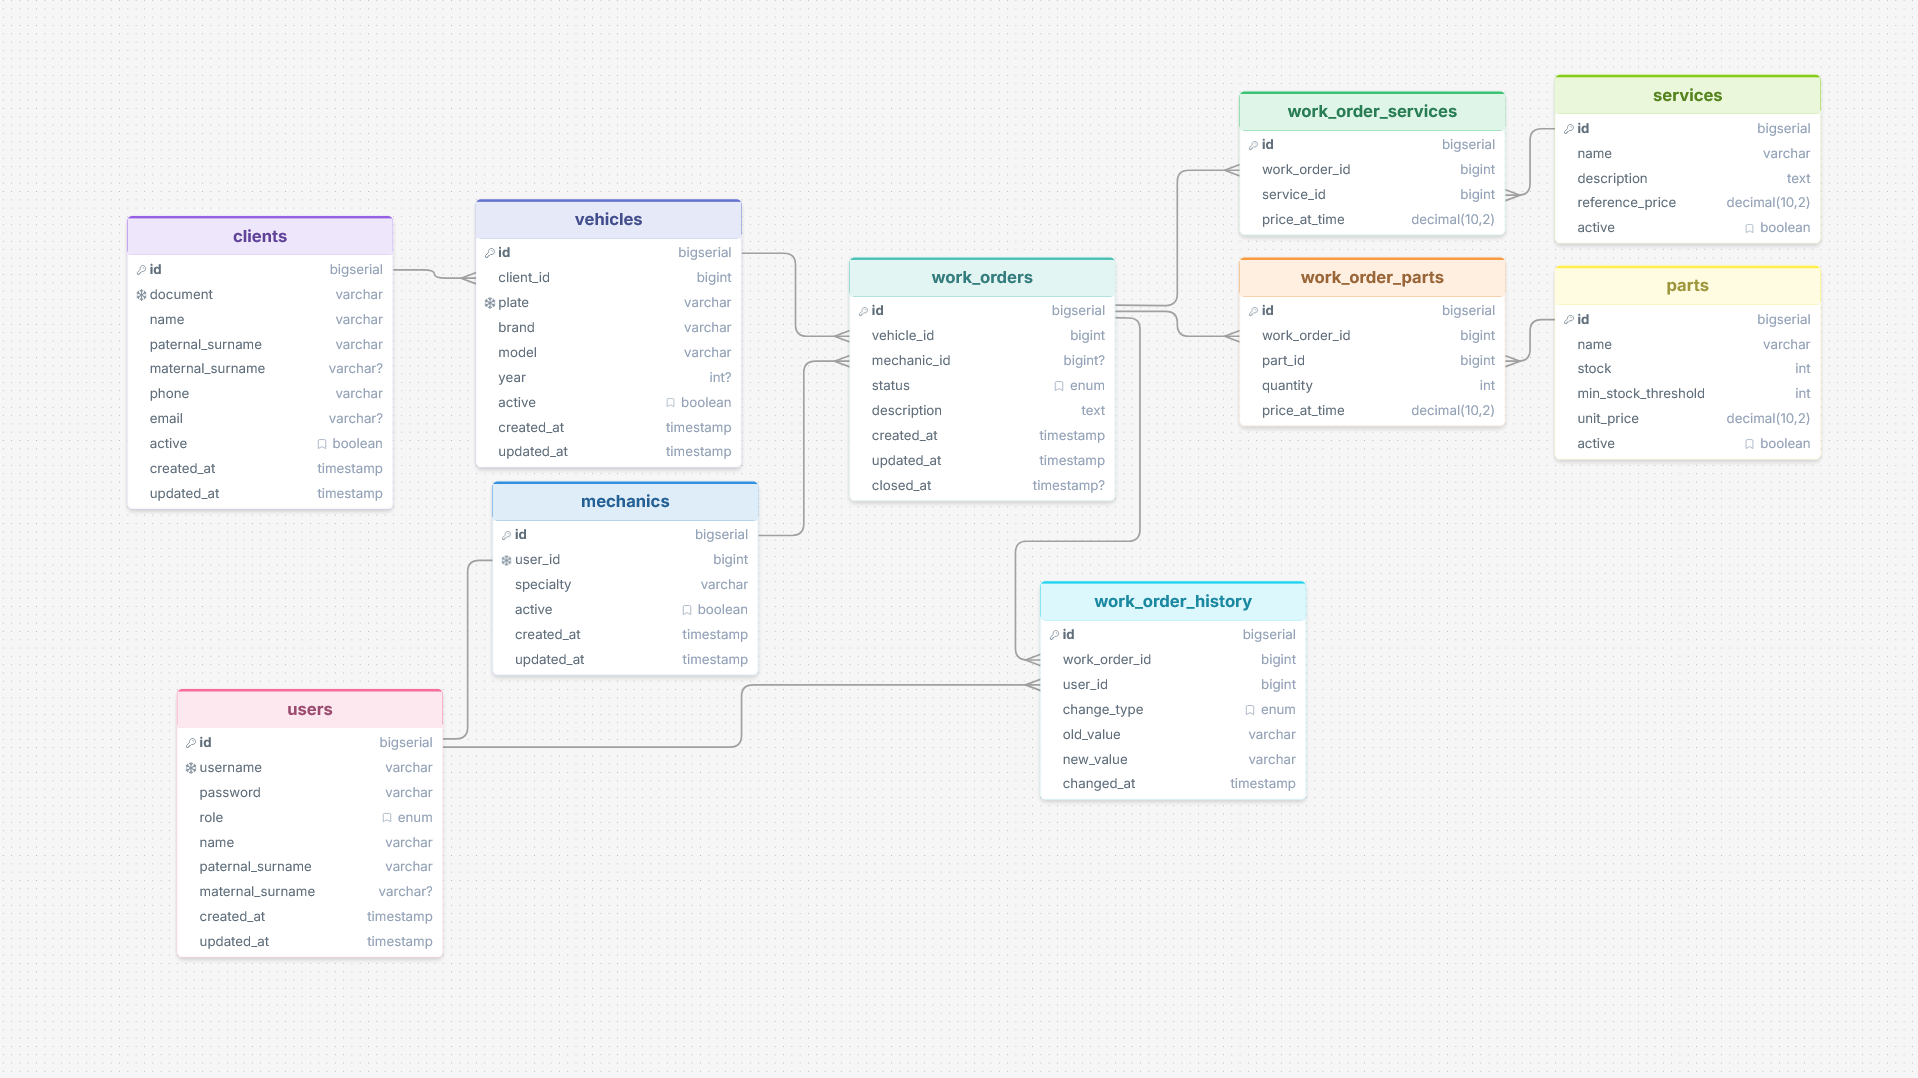
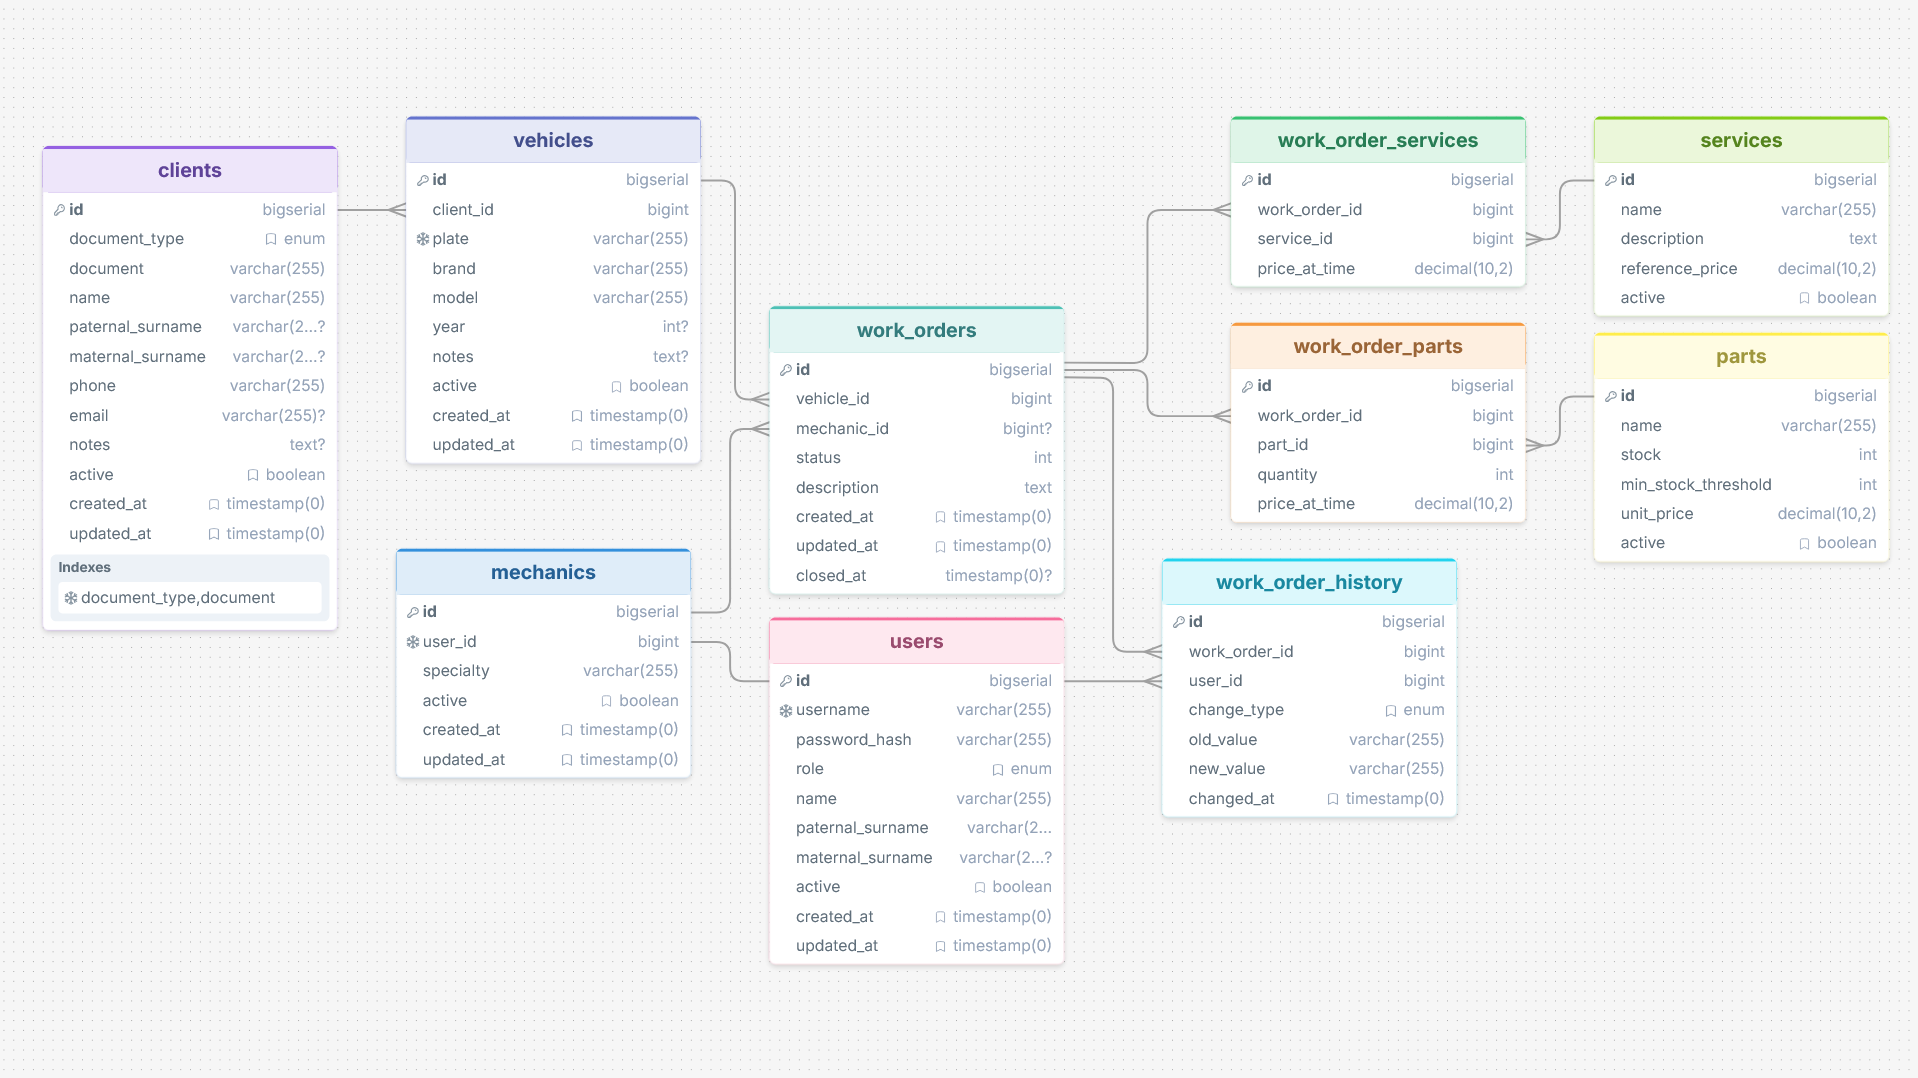
docs: 📝 Actualizar caso de estudio e imagen base del diagrama sql

diff --git a/docs/notes/epsilonworkshop-caso-de-estudio.md b/docs/notes/epsilonworkshop-caso-de-estudio.md
@@ -1,4 +1,4 @@
-# Épsilon Workshop — Caso de Estudio y Especificación de Requisitos (v2)
+# Épsilon Workshop — Caso de Estudio y Especificación de Requisitos (v3)
 
 **Curso:** 2026-II
 **Nomenclatura interna:** Épsilon
@@ -76,7 +76,7 @@ Dado que Backend y Frontend se desarrollan en paralelo (semanas 6-10 y 8-13 resp
 | **Cliente** | No es usuario del sistema; es una entidad de datos gestionada por el Administrador. | No aplica |
 
 **Diseño de tablas de usuario (confirmado):** patrón de tabla de extensión por rol.
-- `users`: id, username, password_hash, role, full_name.
+- `users`: id, username, password_hash, role, name, paternal_surname, maternal_surname, **active**, created_at, updated_at.
 - `mechanics`: id, user_id (FK → users, único), specialty, active — solo existe una fila por usuario con role = mechanic.
 
 ---
@@ -125,18 +125,25 @@ Un vehículo puede transferirse a otro cliente (`vehicles.client_id` es editable
 Un mecánico marcado como `active = false` no puede ser asignado a **nuevas** órdenes ni reasignado a órdenes existentes, pero permanece visible en el historial de órdenes que ya tenía asignadas.
 
 **RN-12 — Unicidad de datos reales.**
-La placa del vehículo y el documento de identidad del cliente son únicos (`UNIQUE`) en la base de datos: no puede haber dos vehículos con la misma placa ni dos clientes con el mismo documento.
+La placa del vehículo es única (`UNIQUE`). El documento de identidad del cliente es único **por tipo de documento**: la restricción es `UNIQUE(document_type, document)`. Esto evita que dos clientes compartan el mismo número bajo el mismo tipo de documento (ej. dos DNI "12345678"), pero permite que el mismo número coexista bajo tipos distintos sin conflicto (ej. un DNI "12345678" y un RUC "12345678" no colisionan). `document_type` está restringido a los valores `DNI`, `CE`, `RUC` (`CHECK` en base de datos, enum `DocumentType` en Java).
 
 **RN-13 — Trazabilidad temporal general.**
 Todas las tablas principales (`clients`, `vehicles`, `mechanics`, `work_orders`) registran `created_at` y `updated_at`. Adicionalmente, `work_orders` registra `closed_at` (nullable, se completa automáticamente al pasar a `terminado` o `cancelado`), para poder reportar tanto por fecha de ingreso como por fecha de cierre.
+
+**RN-14 — Bloqueo de cuenta de usuario.**
+`users.active = false` bloquea el inicio de sesión de esa cuenta (Administrador o Mecánico), independientemente del estado de `mechanics.active`. Son dos flags independientes:
+- `users.active` controla el **acceso al sistema** (¿puede loguearse?).
+- `mechanics.active` controla la **elegibilidad para ser asignado a órdenes de trabajo** (RN-11).
+
+Un mecánico puede tener `users.active = true` (puede loguearse) y `mechanics.active = false` (no asignable a nuevas órdenes), o viceversa, según la decisión del Administrador. No hay cascada automática entre ambos campos.
 
 ---
 
 ## 6. Requisitos funcionales (RF)
 
 ### Must have
-- **RF-01:** Inicio de sesión con usuario y contraseña, identificando rol (Administrador / Mecánico).
-- **RF-02:** CRUD de clientes (con baja lógica, RN-01).
+- **RF-01:** Inicio de sesión con usuario y contraseña, identificando rol (Administrador / Mecánico), respetando el bloqueo de cuenta (RN-14).
+- **RF-02:** CRUD de clientes (con baja lógica, RN-01), incluyendo tipo y número de documento (RN-12).
 - **RF-03:** CRUD de vehículos, asociados a un cliente, con soporte para transferencia de dueño (RN-10).
 - **RF-04:** CRUD de mecánicos, con baja lógica (RN-01) y estado activo/inactivo (RN-11).
 - **RF-05:** Registro de orden de trabajo asociada a un vehículo, con mecánico opcional al momento de creación (RN-03).
@@ -145,6 +152,7 @@ Todas las tablas principales (`clients`, `vehicles`, `mechanics`, `work_orders`)
 - **RF-08:** Registro automático en `work_order_history` de cada cambio de estado y reasignación (RN-08).
 - **RF-09:** El Administrador tiene acceso completo a todas las funcionalidades.
 - **RF-10:** El Mecánico solo visualiza y actualiza el estado de las órdenes que tiene asignadas (RN-09).
+- **RF-17:** El Administrador puede activar/desactivar cuentas de usuario (RN-14), independientemente del estado de `mechanics.active`.
 
 ### Should have
 - **RF-11:** Gestión de catálogo de servicios (nombre, descripción, precio referencial).
@@ -162,15 +170,15 @@ Todas las tablas principales (`clients`, `vehicles`, `mechanics`, `work_orders`)
 
 - **RNF-01:** Aplicación de escritorio (Java Swing), monousuario o multiusuario en red local — no diseñada para acceso vía internet.
 - **RNF-02:** Persistencia en PostgreSQL 16, en contenedor Docker para desarrollo y pruebas.
-- **RNF-03:** Arquitectura MVC extendida con capa DAO, separando presentación, lógica de negocio y acceso a datos.
+- **RNF-03:** Arquitectura MVC extendida con capa DAO, separando presentación, lógica de negocio y acceso a datos. La capa DAO comparte una clase base común (`BaseDAO`) para evitar duplicación de lógica de conexión entre DAOs concretos.
 - **RNF-04:** Contraseñas cifradas (hash), nunca en texto plano.
 - **RNF-05:** Validación de toda entrada de usuario en la capa `util/Validations`.
 - **RNF-06:** Nomenclatura de código consistente en inglés, sin mezcla de idiomas.
-- **RNF-07:** Pruebas unitarias mínimas de la capa DAO/lógica de negocio con JUnit 5, incluyendo casos de transición de estado inválida (RN-06/RN-07).
+- **RNF-07:** Pruebas unitarias mínimas de la capa DAO y de la capa Controller (lógica de negocio) con JUnit 5, incluyendo casos de transición de estado inválida (RN-06/RN-07), permisos por rol (RN-09) y bloqueo de mecánico inactivo (RN-11).
 - **RNF-08:** El proyecto debe levantarse en un entorno limpio siguiendo el README (clonar, Docker, Maven), sin configuración manual adicional.
 - **RNF-09:** Identificadores `SERIAL/INTEGER`, no UUID.
+- **RNF-10:** Las reglas de transición de estado (RN-06/RN-07) deben validarse tanto en la capa de negocio (Controller) como reforzarse con un trigger a nivel de base de datos (`02-triggers.sql`), que además completa `closed_at` automáticamente al llegar a un estado final.
 - **RNF-11:** Las tablas principales mantienen `created_at`/`updated_at`; `work_orders` además mantiene `closed_at` (RN-13).
-- **RNF-10:** Las reglas de transición de estado (RN-06/RN-07) deben validarse tanto en la capa de negocio (Controller/Service) como, idealmente, reforzarse con constraints a nivel de base de datos.
 
 ---
 
@@ -178,12 +186,12 @@ Todas las tablas principales (`clients`, `vehicles`, `mechanics`, `work_orders`)
 
 | Entidad | Prioridad | Notas |
 |---|---|---|
-| `users` | Must | Login: username, password_hash, role, full_name, created_at, updated_at |
-| `clients` | Must | + `active` (RN-01), `document` UNIQUE (RN-12), created_at, updated_at |
-| `vehicles` | Must | FK → clients (editable, RN-10), + `active`, `plate` UNIQUE (RN-12), created_at, updated_at |
+| `users` | Must | Login: username, password_hash, role, name, paternal_surname, maternal_surname, `active` (RN-14, bloqueo de login, independiente de `mechanics.active`), created_at, updated_at |
+| `clients` | Must | + `document_type` (enum `DocumentType`: DNI/CE/RUC, con `CHECK` en BD), `document`, `notes` opcional, `active` (RN-01); UNIQUE compuesto `(document_type, document)` (RN-12); `paternal_surname` nullable, `maternal_surname` nullable; created_at, updated_at |
+| `vehicles` | Must | FK → clients (editable, RN-10), + `active`, `plate` UNIQUE (RN-12), `notes` opcional, created_at, updated_at |
 | `mechanics` | Must | FK → users (único), + `active` (RN-11), created_at, updated_at |
-| `work_orders` | Must | FK → vehicles, FK → mechanics (nullable), `status` (4 valores, RN-05/06/07), created_at, updated_at, closed_at nullable (RN-13) |
-| `work_order_history` | Must | FK → work_orders, FK → users (quién hizo el cambio), tipo de cambio, valor anterior/nuevo, timestamp (RN-08) |
+| `work_orders` | Must | FK → vehicles, FK → mechanics (nullable), `status` (enum Postgres `order_status`, 4 valores, RN-05/06/07), created_at, updated_at, closed_at nullable (RN-13) |
+| `work_order_history` | Must | FK → work_orders, FK → users (quién hizo el cambio), `change_type` (`status_change` / `mechanic_reassignment`, enum Java `WorkOrderChangeType`), valor anterior/nuevo, timestamp (RN-08) |
 | `services` | Should | Catálogo |
 | `work_order_services` | Should | Tabla de detalle (work_order ↔ service) |
 | `parts` | Could | Catálogo + stock |
@@ -193,7 +201,7 @@ Todas las tablas principales (`clients`, `vehicles`, `mechanics`, `work_orders`)
 
 ## 9. Próximos pasos
 
-1. Diseño detallado del schema SQL (`01-schema.sql`) para las entidades Must have, incluyendo el `CHECK` constraint o trigger para las transiciones válidas de estado (RN-06/RN-07).
-2. Definir el enum/tipo de dato para `status` y `role` (¿`VARCHAR` con `CHECK`, o tipo `ENUM` de Postgres?).
+1. Completar la lógica de negocio en la capa Controller (RN-01 a RN-14), actualmente cascarones sin validación.
+2. Escribir tests JUnit de Controller para los casos críticos: transiciones de estado inválidas, permisos por rol, mecánico/usuario inactivo.
 3. Confirmar decisión de GUI: Swing vs JavaFX.
-4. Avanzar a `DBConnection.java` → DAOs → Controllers → Views.
+4. Avanzar a la capa View: `LoginFrame` como punto de entrada real, luego `MainFrame` con menú condicionado por rol, luego los paneles restantes.
